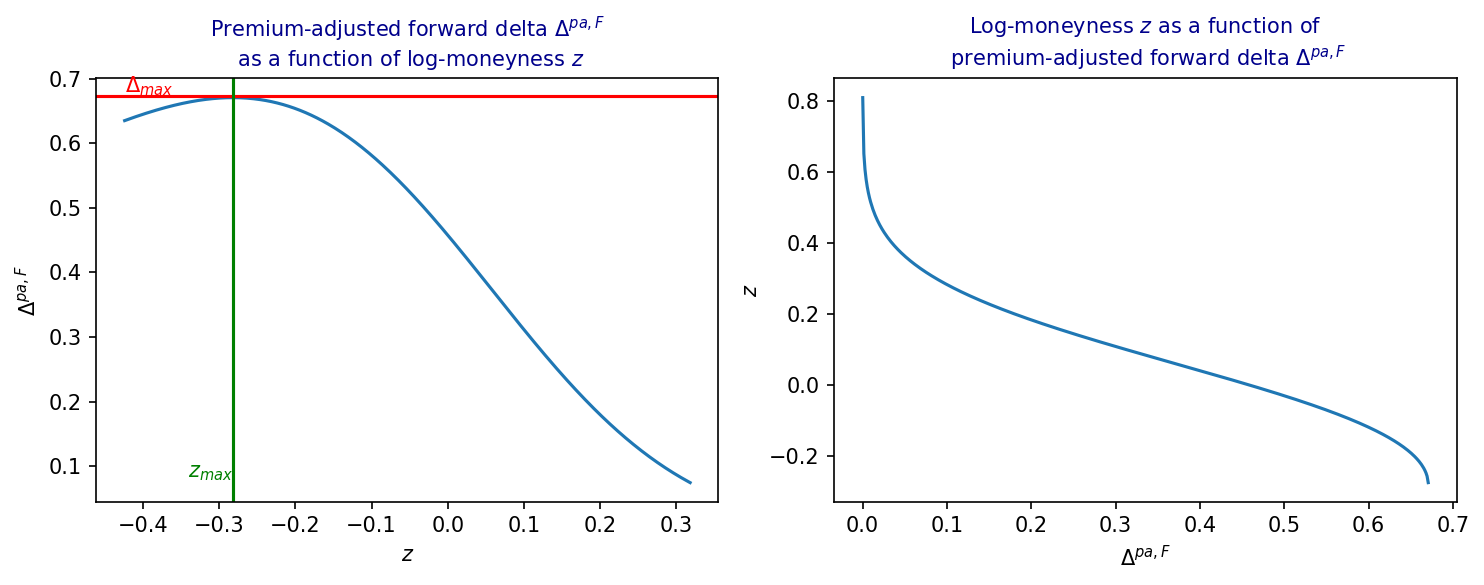
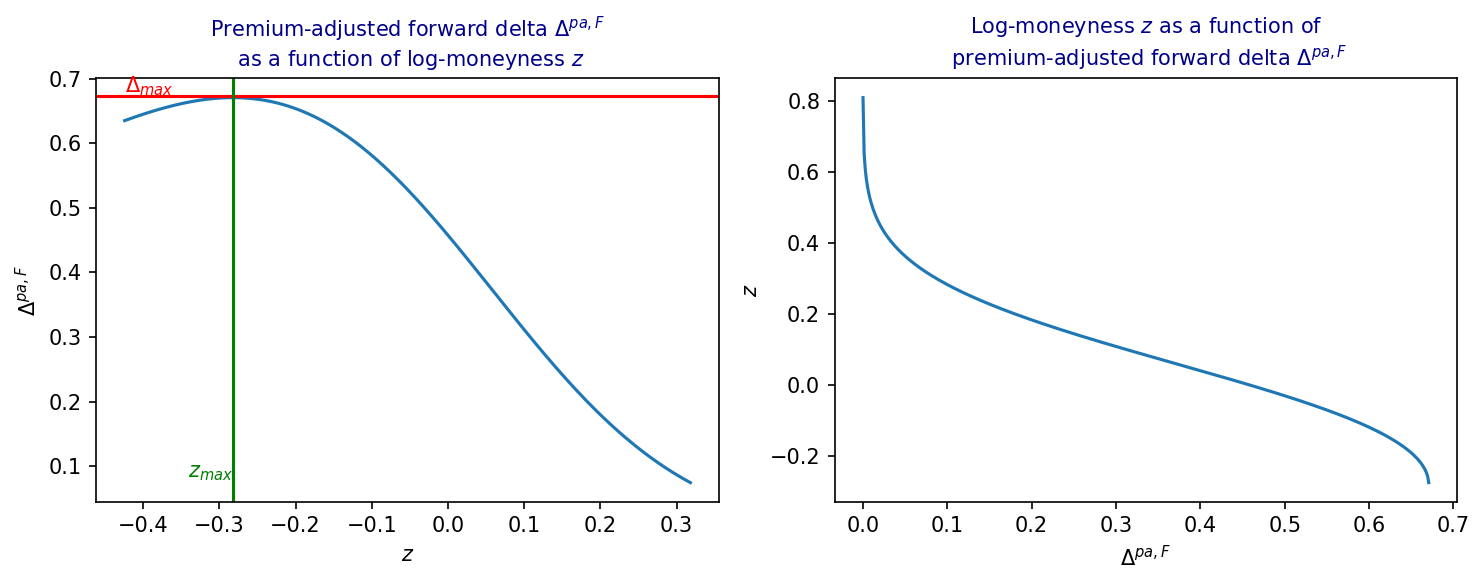
update figures

diff --git a/paper_plots.py b/paper_plots.py
@@ -143,7 +143,7 @@ def plot_prem_adj_delta():
                      fontsize=10, color="darkblue")
 
     plt.show()
-    fig.savefig("figures/prem_adj_delta.png", dpi=150, bbox_inches='tight')
+    # fig.savefig("figures/prem_adj_delta.png", dpi=150, bbox_inches='tight')
 
 
 
@@ -152,8 +152,8 @@ def plot_W_deriv(delta_fwd: float):
     vols = np.linspace(0.25, 0.5, 101)
     T = 6
     total_vols = vols * np.sqrt(T)
-    W_r_derivs = np.array([W_deriv(total_vol, delta_fwd, True) for total_vol in total_vols])
-    W_l_derivs = np.array([W_deriv(total_vol, delta_fwd, False) for total_vol in total_vols])
+    W_r_derivs = np.array([W_deriv(total_vol, delta_fwd, False) for total_vol in total_vols])
+    W_l_derivs = np.array([W_deriv(total_vol, delta_fwd, True) for total_vol in total_vols])
     axs[0].plot(vols, W_r_derivs)
     axs[1].plot(vols, W_l_derivs)
 
@@ -166,11 +166,11 @@ def plot_W_deriv(delta_fwd: float):
     axs[0].set_xlabel(f"$\sigma_{{\mathrm{{str}}}}$")
     # axs[1].set_ylabel(f"$z$")
     axs[1].set_title(f"Derivative $W'(\sigma_{{\mathrm{{str}}}})$ as a function of $\sigma_{{\mathrm{{str}}}}$,\n"
-                     f"assuming larger call root $z_b$",
+                     f"assuming larger  call root $z_b$",
                      fontsize=10, color="darkblue")
 
     plt.show()
-    fig.savefig("figures/strangle_vega.png", dpi=150, bbox_inches='tight')
+    # fig.savefig("figures/strangle_vega.png", dpi=150, bbox_inches='tight')
 
 
 if __name__ == '__main__':
